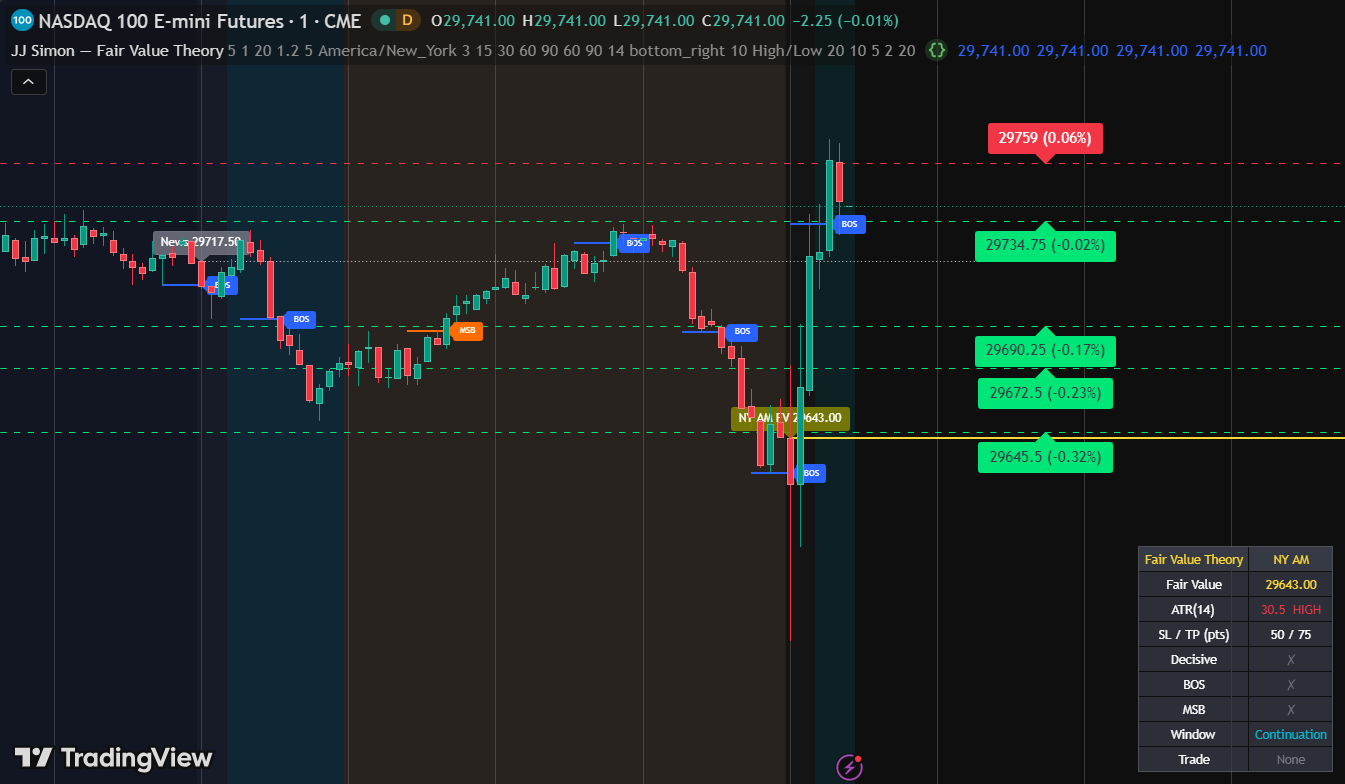
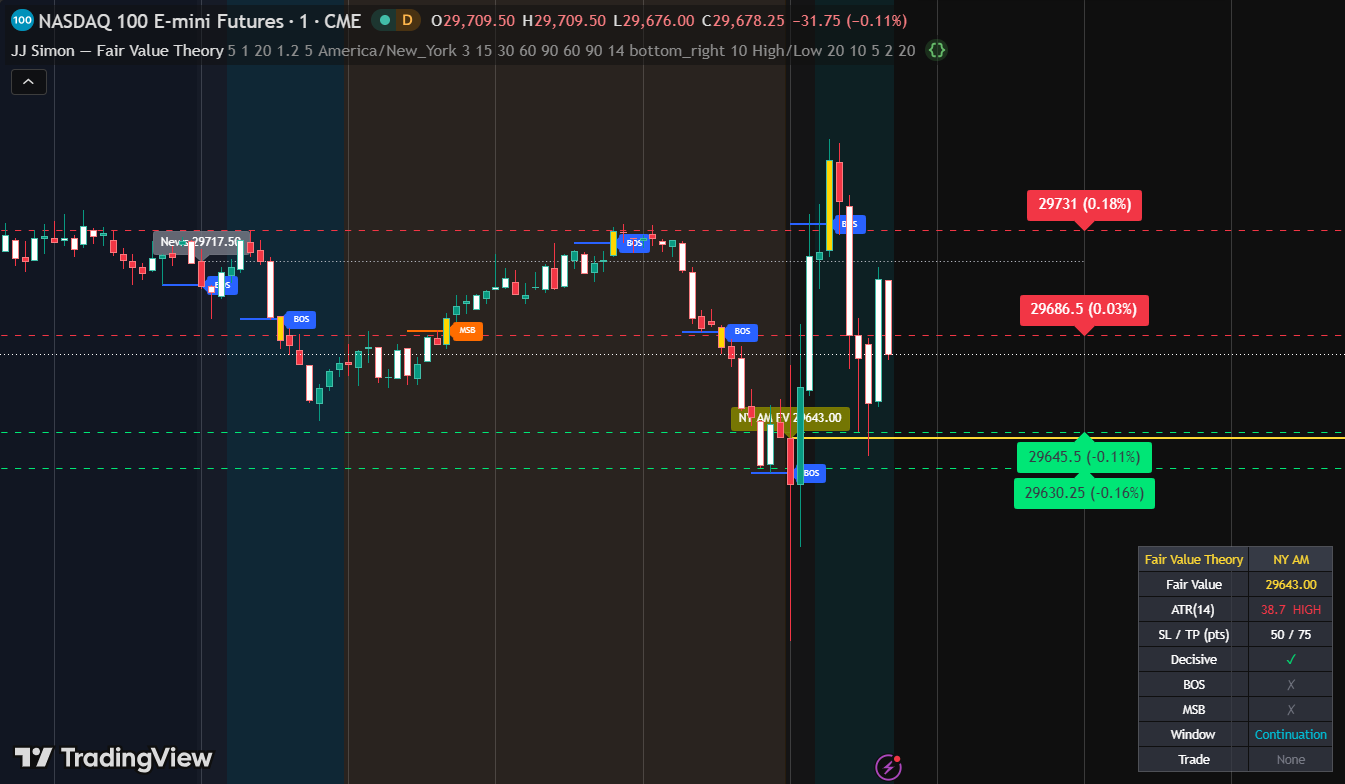
Fix painted candles only visible on hover: use barcolor instead of plotcandle
plotcandle bodies render behind the chart's main candles (TV z-order), so the
white/gold signal candles were hidden unless the indicator was selected/brought
to front -- hence only visible on hover. Switched to barcolor(), which recolors
the actual bars so they're always on top. Trade-off: tints the whole candle, not
just the body, but the decisive candle's counter-wick is <=20% so it reads the
same. Verified live: gold A+ candles now show without hovering.

diff --git a/tested-strategies/PropFirmMath/NOTES.md b/tested-strategies/PropFirmMath/NOTES.md
@@ -58,6 +58,11 @@ to $10k → withdraw $5k → repeat, target 3x eval spend. The "genius" is Layer
 - 2026-06-26 — Indicator **polish**: table → **bottom-right** (configurable input; clears both the
   legend and S/R labels), added **Fair Value price row**, colored Window cell to match its tint,
   softened window tints. Re-verified render live; proof refreshed. Indicator considered DONE for v1.
+- 2026-06-26 — Fixed "painted candles only show on hover": `plotcandle` bodies render BEHIND the
+  chart's main candles (TV z-order), so signal candles were hidden unless the indicator was brought
+  to front. Switched to `barcolor()` (recolors the actual bars → always on top). Trade-off: tints
+  the whole candle not just the body (fine — decisive counter-wick ≤20%). Verified gold A+ candles
+  now visible without hover.
 - Also (prior, parallel sub-project): **EV-app design spec committed** (`docs/superpowers/specs/2026-06-26-propfirm-ev-app-design.md`,
   commit 1581157) — Streamlit+SQLite calculator+tracker; approved, **awaiting user spec review → writing-plans**.
 